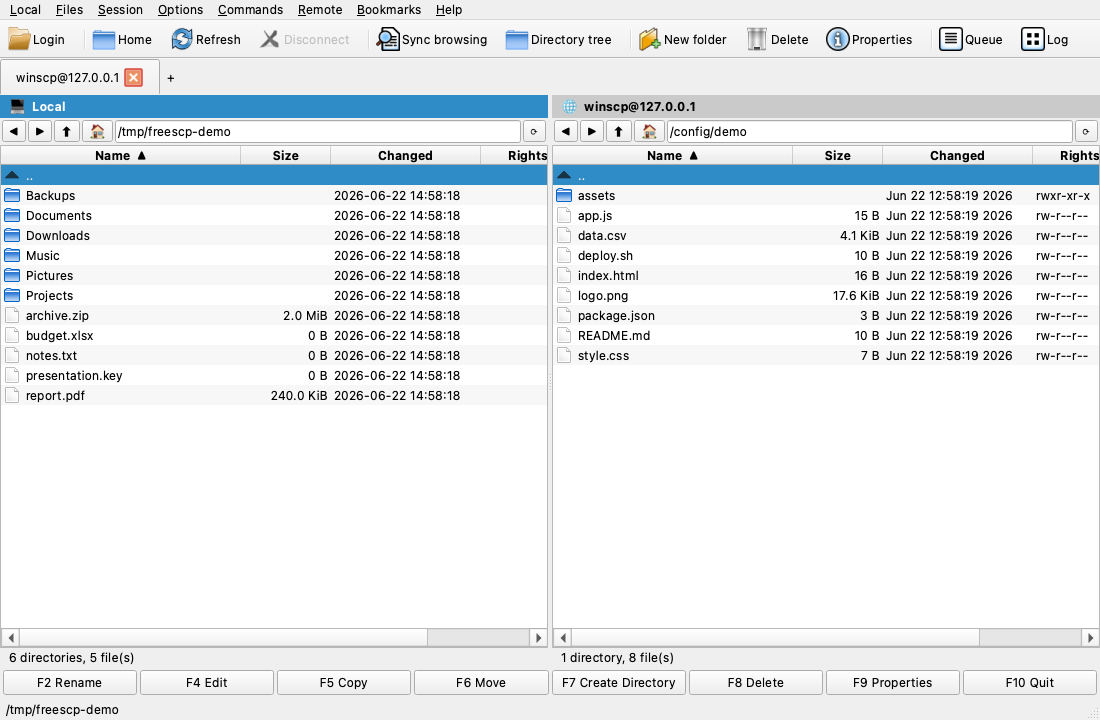
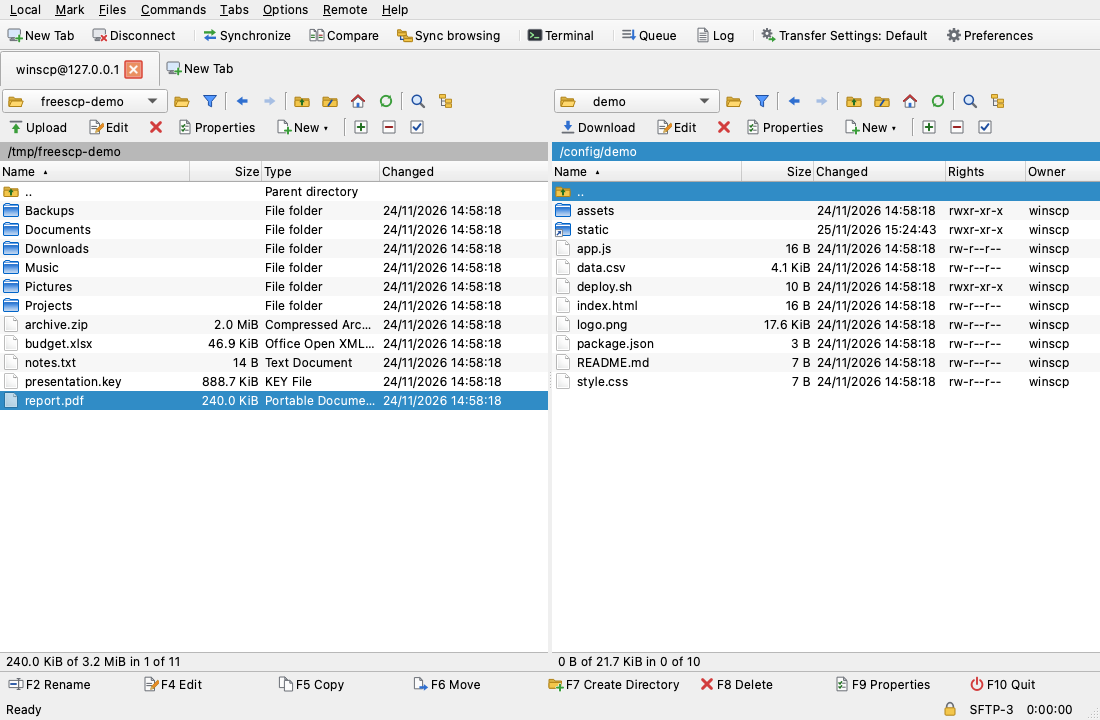
0.4.0: WinSCP-style interface (new screenshot), version strings

Changed region(s): [[0.0, 0.0, 1.0, 0.5806], [0.0, 0.8556, 1.0, 1.0]]

diff --git a/index.html b/index.html
@@ -309,7 +309,7 @@
   <div class="gridfx" aria-hidden="true"></div>
   <canvas id="streams" aria-hidden="true"></canvas>
   <div class="wrap">
-    <a class="badge reveal" href="releases.html#latest"><b>v0.3.2</b> SSH tunnels &amp; proxies · 2FA · find &amp; compare · update notices &nbsp;→</a>
+    <a class="badge reveal" href="releases.html#latest"><b>v0.4.0</b> WinSCP look · keep remote directory up to date · master password · reconnect &nbsp;→</a>
     <h1 class="reveal" style="--d:.08s">FreeSCP.<br>The WinSCP engine, <span class="grad">natively</span> on Mac &amp; Linux.</h1>
     <p class="sub reveal" style="--d:.16s">The dual-pane file manager people have loved on Windows for 20 years —
       <b>SFTP, FTP, SCP, WebDAV and S3</b> — now running natively on macOS and Linux. Free and open source.</p>
@@ -470,7 +470,7 @@
   <div class="center">
     <div class="eyebrow reveal">Download</div>
     <h2 class="reveal" style="--d:.06s">Pick your platform.</h2>
-    <p class="lead reveal" style="--d:.12s">Version 0.3.2 &mdash; the same app everywhere, built from the same source.</p>
+    <p class="lead reveal" style="--d:.12s">Version 0.4.0 &mdash; the same app everywhere, built from the same source.</p>
   </div>
   <div class="plats">
     <div class="plat reveal" data-os="mac">
